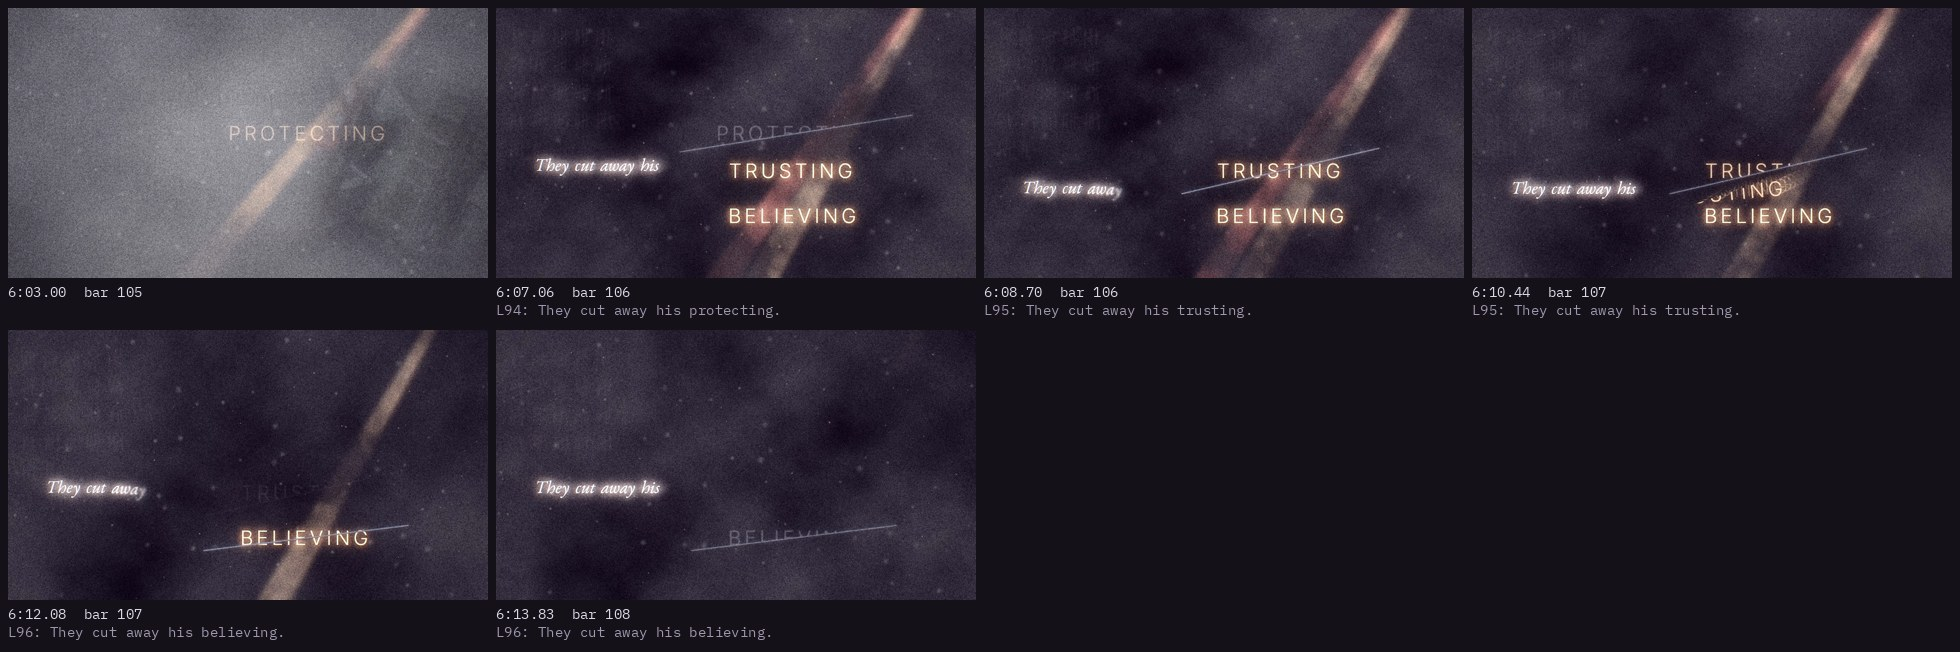
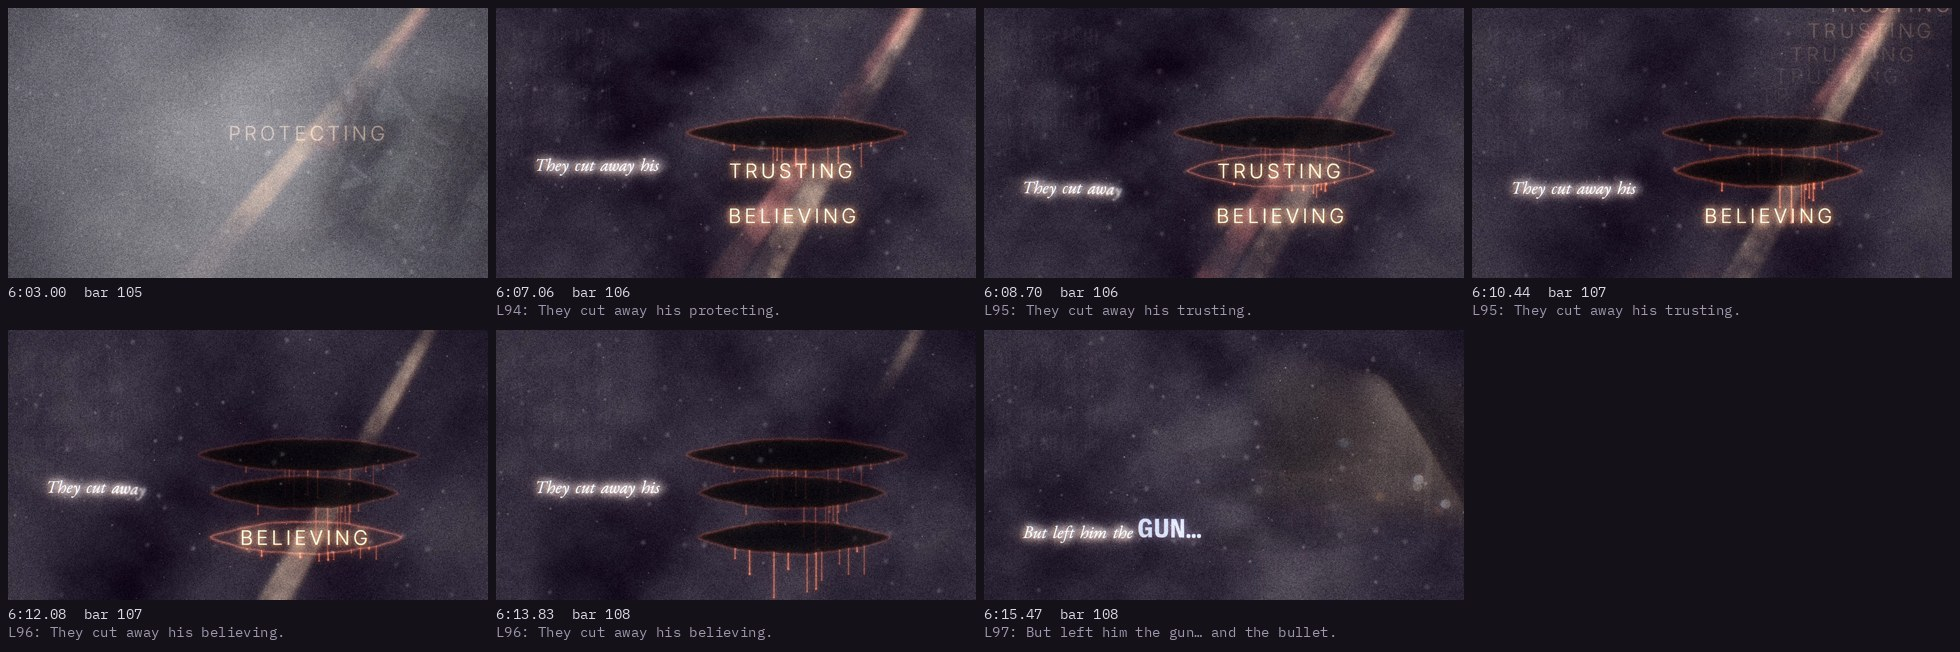
The Cutting: the virtues excised, not slashed
A scalpel traces a surgeon's ellipse round each word on 'cut'; his light
wells from the incision, redder, and drips. The word trembles until she
sings it, then is torn out up the shaft (threads of light snap), leaving a
raw hole darker than the night in his light. The wounds stay until the gun.

Claude-Session: https://claude.ai/code/session_013aPae8dR11r7xw8o95d9Yi

diff --git a/storyboard/index.html b/storyboard/index.html
@@ -149,8 +149,8 @@ ol.steps li::marker { font: 600 0.85rem var(--mono); color: var(--ink-2); }
     <source src="renders/the_cutting_cuts.mp4" type="video/mp4">
   </video>
   <figcaption><b>The Cutting (chunk)</b>
-    <span class="tc">6:03.0 → 6:15.2 · bars 105–108</span>
-    <span class="note">Revised cuts. On each &#x27;cut&#x27; a cold blade (the coats&#x27; slash, as under the stabs) goes through his word and his shaft in a few frames; the frame jolts, and the word&#x27;s light leaks and flickers around the wound. When she sings the word it comes apart: the lower half slides off down the blade into the dark with the light below the wound, and the upper half gutters out to ash where it hung. A faint scar of the slash stays a moment. <a href="renders/the_cutting_cuts_contact.jpg">Contact sheet</a></span></figcaption>
+    <span class="tc">6:03.0 → 6:16.2 · bars 105–108</span>
+    <span class="note">Revised cuts: surgical. On each &#x27;cut&#x27; a scalpel traces a surgeon&#x27;s ellipse round his word in a few frames (the frame jolts), and the incision opens: his light wells out of it, redder, and runs down in drips. The word trembles while it is worked on. When she sings it, it is torn out up the shaft toward his source, threads of light stretching from the wound and snapping, and leaves a hole darker than the night, still raw at the edge, cut out of his light; the light below drains, the light above withdraws. The three wounds stay until &#x27;But left him the gun&#x27;. <a href="renders/the_cutting_cuts_contact.jpg">Contact sheet</a></span></figcaption>
 </figure>
 <figure class="render" id="render-the_cutting">
   <video controls playsinline preload="metadata" poster="renders/the_cutting_poster.jpg" width="1280" height="720">

diff --git a/video/sections.py b/video/sections.py
@@ -966,53 +966,7 @@ def _along(y):
     return (y - BEAM_SRC[1]) / (H - BEAM_SRC[1])
 
 
-CUT_ANGLE = (-9.0, -13.0, -7.0)        # each slash rises left to right, like the pencil's
-
-
-def _cut_line(k):
-    """Slash k: its centre (through the middle of his word), direction along
-    the blade (pointing downhill) and the signed distance of every pixel from it
-    (positive below)."""
-    def make():
-        cx, cy = VIRTUE_AT[k][0], VIRTUE_AT[k][1] - 0.35 * VIRTUE_SIZE
-        a = math.radians(CUT_ANGLE[k])
-        ux, uy = -math.cos(a), -math.sin(a)            # downhill: toward the lower end
-        nx, ny = -math.sin(a), math.cos(a)
-        yy, xx = fx._yy_xx()
-        return (cx, cy), (ux, uy), ((xx - cx) * nx + (yy - cy) * ny).astype(np.float32)
-    return cached(("cutline", k), make)
-
-
-def cut_shafts(img, t, cuts, sung, strength=0.95):
-    """'cut' slices shaft k through his word: a dark wound across the light,
-    which now flickers. When she sings the word, the light below the wound
-    falls away and the light above withdraws into its source."""
-    g = np.clip(0.7 + 0.4 * fx.fog(t, seed=31, period=5.0), 0.1, 1.2)
-    along = fx.vgrad(BEAM_SRC[1], H)
-    cols = [C["amber"], C["rose"], C["amber_hot"]]
-    for k in range(3):
-        pour = ease_out(clamp01((t - CUT_OPEN[k]) / 0.9), 2)
-        if pour <= 0.001:
-            continue
-        m = _shaft(k)
-        if pour < 1:                                       # pours down from the source
-            m = m * np.clip((pour * 1.15 - along) / 0.1, 0, 1)
-        if cuts[k] is not None and t >= cuts[k]:
-            _, _, d = _cut_line(k)
-            m = m * np.clip((np.abs(d) - 3) / 6, 0, 1)      # the wound
-            m = m * (0.8 + 0.2 * math.sin(t * 29 + 2 * k) ** 2)
-            tau = t - sung[k]
-            if tau >= 0:
-                aw = _along(VIRTUE_AT[k][1] - 0.35 * VIRTUE_SIZE)
-                rec = aw * smooth(clamp01(tau / 1.0))
-                if tau > 1.0:
-                    continue
-                fall = 0.9 * (tau / 0.6) ** 2
-                upper = m * (d < 0) * np.clip((aw - rec - along) / 0.04, 0, 1)
-                lower = m * np.clip((along - aw - fall) / 0.04, 0, 1) * (1 - smooth(clamp01(tau / 0.6)))
-                m = upper + lower * (d >= 0)
-        img = img + cols[k] * (m * 0.9 * g * strength)[..., None]
-    return img
+BLEED = np.array([1.0, 0.34, 0.14], np.float32)      # his light, opened: deeper, redder
 
 
 def _virtue_mask(k, txt):
@@ -1030,32 +984,87 @@ def _virtue_mask(k, txt):
     return cached(("virtue", k), make)
 
 
-def _slash(img, t, k, ct, ts, wd):
-    """The coats' blade: one cold stroke through his word and his light,
-    sweeping across in a few frames; it leaves a faint scar."""
-    (cx, cy), (ux, uy), _ = _cut_line(k)
-    a = 1.6 * math.exp(-(t - ct) / 0.22) + 0.3 * (1 - smooth(ramp(t, ts + 0.4, ts + 2.4)))
-    if a <= 0.004:
-        return img
-    L = wd + 300
-    p = ease_out(clamp01((t - ct) / 0.07), 2)
-    x0, y0 = cx - ux * L / 2, cy - uy * L / 2          # from the high end, down through the word
+def _incision(k, wd):
+    """The excision the coats cut round his word: a surgeon's ellipse, pointed at
+    both ends, traced by hand (slightly unsteady). Starts at the left point,
+    runs along the top, back along the bottom. Returns its path, the filled hole,
+    its centre and box, and where the drips hang from."""
+    def make():
+        cx, y = VIRTUE_AT[k]
+        cy = y - 0.37 * VIRTUE_SIZE
+        a, b = wd / 2 + 120, 64.0
+        rng = np.random.default_rng(300 + k)
+        ph = rng.uniform(0, 6.28, 4)
 
-    def draw(c):
-        c.drawLine(x0, y0, x0 + ux * L * p, y0 + uy * L * p,
-                   skia.Paint(AntiAlias=True, StrokeWidth=4.5, StrokeCap=skia.Paint.kRound_Cap,
-                              Color4f=skia.Color4f(1, 1, 1, 1)))
-    m = fx.skia_alpha(draw)
-    img = fx.add(img, kinetic.COLD, cv2.GaussianBlur(m, (0, 0), 7) * 0.7 * a)
-    return fx.add(img, kinetic.COLD, cv2.GaussianBlur(m, (0, 0), 0.8) * a)
+        def wob(s_):
+            return 1.6 * math.sin(9 * s_ + ph[0]) + 1.1 * math.sin(23 * s_ + ph[1])
+        ss = np.linspace(-1, 1, 90)
+        top = [(cx + a * q, cy - b * (1 - q * q) ** 0.85 - wob(q)) for q in ss]
+        bot = [(cx + a * q, cy + b * (1 - q * q) ** 0.85 + wob(q + 3)) for q in ss[::-1]]
+        path = skia.Path()
+        path.moveTo(*top[0])
+        for pt in top[1:] + bot[1:]:
+            path.lineTo(*pt)
+        path.close()
+        hole = cv2.GaussianBlur(fx.skia_alpha(lambda c: c.drawPath(
+            path, skia.Paint(AntiAlias=True, Color4f=skia.Color4f(1, 1, 1, 1)))), (0, 0), 1.4)
+        drips = []
+        for _ in range(11):
+            q = float(rng.uniform(-0.75, 0.75))
+            drips.append(dict(x=cx + a * q, y=cy + b * (1 - q * q) ** 0.85 + wob(q + 3),
+                              delay=0.28 * (0.5 + 0.5 * (1 - q)) + float(rng.uniform(0.0, 0.5)),
+                              len=float(rng.uniform(25, 220)) * (1 - 0.6 * abs(q)),
+                              tau=float(rng.uniform(0.5, 1.6)), w=float(rng.uniform(2.0, 4.8))))
+        r = skia.Rect(cx - a, cy - b, cx + a, cy + b)
+        return dict(path=path, rect=r, hole=hole, c=(cx, cy), drips=drips)
+    return cached(("incision", k), make)
 
 
-def virtue_words(img, t, T, sung_words, cuts):
-    """His virtues, lit in their shafts. On 'cut' a blade goes through each and
-    its light leaks and flickers around the wound; when she sings it, it comes
-    apart: the lower half slides off down the blade into the dark, the upper
-    half gutters out to ash where it hung."""
-    ash = hexc("#8A8F9C")
+def _stroke_mask(path, width):
+    return fx.skia_alpha(lambda c: c.drawPath(path, skia.Paint(
+        AntiAlias=True, Style=skia.Paint.kStroke_Style, StrokeWidth=width,
+        StrokeCap=skia.Paint.kRound_Cap, StrokeJoin=skia.Paint.kRound_Join,
+        Color4f=skia.Color4f(1, 1, 1, 1))))
+
+
+def cut_shafts(img, t, cuts, sung, strength=0.95):
+    """His shafts. Once cut, the light flickers; when his word is taken out the
+    hole is cut out of the light too, the light below it drains away and the
+    light above withdraws into its source."""
+    g = np.clip(0.7 + 0.4 * fx.fog(t, seed=31, period=5.0), 0.1, 1.2)
+    along = fx.vgrad(BEAM_SRC[1], H)
+    cols = [C["amber"], C["rose"], C["amber_hot"]]
+    for k in range(3):
+        pour = ease_out(clamp01((t - CUT_OPEN[k]) / 0.9), 2)
+        if pour <= 0.001:
+            continue
+        m = _shaft(k)
+        if pour < 1:                                       # pours down from the source
+            m = m * np.clip((pour * 1.15 - along) / 0.1, 0, 1)
+        if cuts[k] is not None and t >= cuts[k]:
+            m = m * (0.8 + 0.2 * math.sin(t * 29 + 2 * k) ** 2)
+            tau = t - sung[k]
+            if tau >= 0:
+                if tau > 1.3:
+                    continue
+                inc = _incision(k, _virtue_mask(k, VIRTUE_WORDS[k].upper())[3])
+                top, bot = _along(inc["rect"].top()), _along(inc["rect"].bottom())
+                rec = top * smooth(clamp01(tau / 1.3))
+                fall = 0.9 * (tau / 0.7) ** 2
+                upper = np.clip((top - rec - along) / 0.04, 0, 1)
+                lower = np.clip((along - bot - fall) / 0.04, 0, 1) * (1 - smooth(clamp01(tau / 0.7)))
+                m = m * (upper + lower) * (1 - inc["hole"])
+        img = img + cols[k] * (m * 0.9 * g * strength)[..., None]
+    return img
+
+
+def virtue_words(img, t, T, sung_words, cuts, scar_end):
+    """His virtues, lit in their shafts, cut out of him. On 'cut' a scalpel
+    traces round the word and the incision opens: his light wells out of it,
+    redder, and runs. The word trembles while it is worked on. When she sings
+    it, it is pulled out up the shaft (threads of light stretch from the wound
+    and snap), leaving a hole darker than the night, with a cooling rim."""
+    hv = 1 - smooth(ramp(t, scar_end, scar_end + 1.0))          # the wounds stay till the gun
     for k, w in enumerate(sung_words):
         lit = 0.9 * smooth(ramp(t, CUT_OPEN[k] + 0.35, CUT_OPEN[k] + 1.2))
         if lit <= 0.001:
@@ -1066,35 +1075,71 @@ def virtue_words(img, t, T, sung_words, cuts):
             img = fx.add(img, kinetic.AMBER, bloom * 0.72 * lit)
             img = fx.add(img, kinetic.AMBER_HOT, m * 1.5 * lit)
             continue
-        (cx, cy), (ux, uy), d = _cut_line(k)
-        wound = np.clip((np.abs(d) - 1.5) / 2.5, 0, 1)
-        bleed = 0.8 + 0.2 * math.sin(t * 31 + 3 * k) ** 2
-        up, lo = (d < 0) * wound, (d >= 0) * wound
-        tau = t - ts
-        # upper half: hangs where it was, then gutters out to ash
-        a_up = lit * bleed * ((1 + 0.5 * math.exp(-tau / 0.1)) * (1 - smooth(ramp(tau, 0.15, 0.75)))
-                              if tau >= 0 else 1.0)
-        if a_up > 0.004:
-            img = fx.add(img, kinetic.AMBER, bloom * up * 0.72 * a_up)
-            img = fx.add(img, kinetic.AMBER_HOT, m * up * 1.5 * a_up)
-        ember = 0.35 * smooth(ramp(tau, 0.15, 0.75)) * (1 - smooth(ramp(tau, 0.75, 2.8)))
-        if ember > 0.004:
-            img = fx.add(img, ash, soft * up * ember)
-        # lower half: slides off along the blade and falls, turning, out of frame
-        a_lo = lit * bleed * (1 - smooth(ramp(tau, 0.3, 0.8)) if tau >= 0 else 1.0)
-        if a_lo > 0.004:
-            if tau > 0:
-                sl, dy = 200 * tau + 500 * tau * tau, 250 * tau * tau
-                M = cv2.getRotationMatrix2D((cx, cy), -12 * tau * (1 if ux > 0 else -1), 1.0)
-                M[0, 2] += ux * sl
-                M[1, 2] += uy * sl + dy
-                warp = lambda a_: cv2.warpAffine(a_, M, (W, H), flags=cv2.INTER_LINEAR)
-                lm, lb = warp(m * lo), warp(bloom * lo)
-            else:
-                lm, lb = m * lo, bloom * lo
-            img = fx.add(img, kinetic.AMBER, lb * 0.72 * a_lo)
-            img = fx.add(img, kinetic.AMBER_HOT, lm * 1.5 * a_lo)
-        img = _slash(img, t, k, ct, ts, wd)
+        inc = _incision(k, wd)
+        age, tau = t - ct, t - ts
+        L = skia.PathMeasure(inc["path"], False).getLength()
+        trace = ease_out(clamp01(age / 0.28), 2)                 # the blade goes round in ~8 frames
+        well = smooth(ramp(age, 0.05, 0.6)) * (0.82 + 0.18 * math.sin(t * 17 + k) * math.sin(t * 7.3))
+        hot = 1.0 if tau < 0 else 0.45 + 0.55 * math.exp(-tau / 0.8)   # the wound stays raw
+        if tau >= 0:                                             # the hole: a pit in his light
+            img = img * (1 - 0.78 * hv * inc["hole"])[..., None]
+        # the incision: a fine cold line, the raw edge welling under it
+        seg = skia.Path()
+        skia.PathMeasure(inc["path"], False).getSegment(0, L * trace, seg, True)
+        cut = _stroke_mask(seg, 2.2)
+        img = fx.add(img, BLEED, cv2.GaussianBlur(cut, (0, 0), 16) * 0.8 * well * hot * hv)
+        img = fx.add(img, BLEED, cv2.GaussianBlur(cut, (0, 0), 4) * 1.5 * well * hot * hv)
+        img = fx.add(img, kinetic.COLD, cut * 1.3 * math.exp(-age / 0.3))
+        if trace < 1:                                            # the blade's point
+            pos = skia.PathMeasure(inc["path"], False).getPosTan(L * trace)[0]
+            tip = fx.skia_alpha(lambda c: c.drawCircle(pos.x(), pos.y(), 4.5, skia.Paint(
+                AntiAlias=True, Color4f=skia.Color4f(1, 1, 1, 1))))
+            img = fx.add(img, kinetic.COLD, cv2.GaussianBlur(tip, (0, 0), 3) * 2.0)
+        # the drips: his light running from the bottom of the wound
+        da = hv * (1 - 0.6 * smooth(ramp(tau, 0.3, 2.5)) if tau >= 0 else 1.0)
+
+        def drips(c):
+            for d in inc["drips"]:
+                u = age - d["delay"]
+                if u <= 0:
+                    continue
+                ln = d["len"] * (1 - math.exp(-u / d["tau"]))
+                pnt = skia.Paint(AntiAlias=True, StrokeWidth=d["w"], StrokeCap=skia.Paint.kRound_Cap,
+                                 Color4f=skia.Color4f(1, 1, 1, 0.9))
+                c.drawLine(d["x"], d["y"] - 2, d["x"], d["y"] + ln, pnt)
+                c.drawCircle(d["x"], d["y"] + ln, d["w"] * 0.95, skia.Paint(
+                    AntiAlias=True, Color4f=skia.Color4f(1, 1, 1, 1)))
+        dm = fx.skia_alpha(drips)
+        img = fx.add(img, BLEED, cv2.GaussianBlur(dm, (0, 0), 1.2) * 0.95 * da)
+        img = fx.add(img, BLEED, cv2.GaussianBlur(dm, (0, 0), 7) * 0.4 * da)
+        # the word itself
+        if tau < 0:                                              # trembling while it is worked on
+            jx = int(round((kinetic._hash01(k, int(t * 30), 1) - 0.5) * 3.5))
+            jy = int(round((kinetic._hash01(k, int(t * 30), 2) - 0.5) * 3.0))
+            wm, wb = np.roll(m, (jy, jx), (0, 1)), np.roll(bloom, (jy, jx), (0, 1))
+            a = lit * (0.85 + 0.15 * math.sin(t * 31 + 3 * k) ** 2)
+            img = fx.add(img, kinetic.AMBER, wb * 0.72 * a)
+            img = fx.add(img, kinetic.AMBER_HOT, wm * 1.5 * a)
+        elif tau < 0.75:                                         # pulled out, up toward the source
+            cx, cy = inc["c"]
+            dx, dy = BEAM_SRC[0] - cx, BEAM_SRC[1] - cy
+            n = math.hypot(dx, dy)
+            dist = 2400 * (tau / 0.7) ** 2
+            M = np.float32([[1, 0, dx / n * dist], [0, 1, dy / n * dist]])
+            piece = cv2.warpAffine(np.clip(m * 1.5 + inc["hole"] * 0.18, 0, 1.5), M, (W, H))
+            pb = cv2.warpAffine(bloom, M, (W, H))
+            img = fx.add(img, kinetic.AMBER, pb * 0.72 * lit)
+            img = fx.add(img, kinetic.AMBER_HOT, piece * lit)
+            if tau < 0.3:                                        # threads from the wound, then snap
+                pm = skia.PathMeasure(inc["path"], False)
+
+                def threads(c):
+                    for q in range(8):
+                        pp = pm.getPosTan(L * (q + 0.5) / 8)[0]
+                        c.drawLine(pp.x(), pp.y(), pp.x() + dx / n * dist, pp.y() + dy / n * dist,
+                                   skia.Paint(AntiAlias=True, StrokeWidth=1.6, Color4f=skia.Color4f(1, 1, 1, 1)))
+                th = fx.skia_alpha(threads)
+                img = fx.add(img, BLEED, cv2.GaussianBlur(th, (0, 0), 1.0) * 1.2 * (1 - tau / 0.3))
     return img
 
 
@@ -1127,14 +1172,15 @@ def cutting(t, T, lines):
     yrs = [w["start"] for w in T.lines[102]["words"] if w["text"].lower().startswith("years")]
     a_t = 0.35 + sum(0.09 * smooth(ramp(t, y, y + 0.5)) for y in yrs)
     img = look.tally(img, t, T, color=hexc("#7A6D86"), alpha=a_t, blur=2.0)
-    img = virtue_words(img, t, T, virtues, cuts)
+    img = virtue_words(img, t, T, virtues, cuts, T.lines[97]["start"] + 0.6)
     img = kin(T, name, lines, CUT_SHOTS, light=True, hold=1.2).draw(img, t)
-    # each 'cut' startles, like the stabs: a jolt, the exposure knocked down for an instant
+    # each 'cut' startles, like the stabs, and so does each pull: a jolt, the
+    # exposure knocked down for an instant
     jolt = 0.0
-    for k, c in enumerate(cuts):
+    for k, (c, amp) in enumerate([(c, 1.0) for c in cuts] + [(x, 0.7) for x in sung]):
         if c is not None and 0 <= t - c < 0.35:
-            jolt = math.exp(-(t - c) / 0.06)
-            img = fx.shift(img, 8 * jolt * math.cos(1.1 + 2.1 * k), 6 * jolt * math.sin(1.1 + 2.1 * k))
+            jolt = amp * math.exp(-(t - c) / 0.06)
+            img = fx.shift(img, 9 * jolt * math.cos(1.1 + 2.1 * k), 7 * jolt * math.sin(1.1 + 2.1 * k))
     p = post("night", exposure=0.95 - 0.1 * jolt)
     agains = word_at(T, 104, "agains")                   # still words don't double; her agains do
     g = smooth(ramp(t, agains, agains + 1.5)) if agains else 0.0

diff --git a/storyboard/spec.py b/storyboard/spec.py
@@ -263,8 +263,8 @@ STYLE_FRAMES = [
 # Sections built so far: (slug, section name, note shown under the player)
 RENDERS = [
     ("the_cutting_cuts", "The Cutting",
-     "Revised cuts. On each 'cut' a cold blade (the coats' slash, as under the stabs) goes through his word and his shaft in a few frames; the frame jolts, and the word's light leaks and flickers around the wound. When she sings the word it comes apart: the lower half slides off down the blade into the dark with the light below the wound, and the upper half gutters out to ash where it hung. A faint scar of the slash stays a moment.",
-     (363.0, 375.2)),
+     "Revised cuts: surgical. On each 'cut' a scalpel traces a surgeon's ellipse round his word in a few frames (the frame jolts), and the incision opens: his light wells out of it, redder, and runs down in drips. The word trembles while it is worked on. When she sings it, it is torn out up the shaft toward his source, threads of light stretching from the wound and snapping, and leaves a hole darker than the night, still raw at the edge, cut out of his light; the light below drains, the light above withdraws. The three wounds stay until 'But left him the gun'.",
+     (363.0, 376.2)),
     ("the_cutting", "The Cutting",
      "What they did to each of them, in her words. Out of the coats' white his three shafts pour back, with PROTECTING, TRUSTING and BELIEVING still lit where he set them in Spoken I (a memory of his offer). Each 'cut' slices a shaft at its word: below the slice the light falls away at once and the frame jolts, as on the stabs; above it the light withdraws into its source, and the word flares as she sings it and goes out to ash. He is left the GUN and the BULLET in the coats' type, and the bullet falls again, top-centre to bottom-centre at the same speed as before, which carries it out of frame exactly on 'But left HER the years'. What they take from her is cut out of her lines, leaving the gaps: 'They took her ___ to hug / ___ to run / Her ___ to see and ___ to hear'. Taking her eyes takes the focus; taking her ears stills the world (the drift, the fog, the grain). What they leave her is the years: her tally, sharp through the blur, brightening on each 'years'. 'Alone' in her serif with 'with time... with time...' overstruck in the coats' type: their phrase is now her condition. Her agains begin to double (the deaf ghosts of Refrain II). Then OF HIM... in his light on his side, and her... on hers. The clip starts 3.6 s early, in White Coats III's white, to show the hand-off.",
     ),
